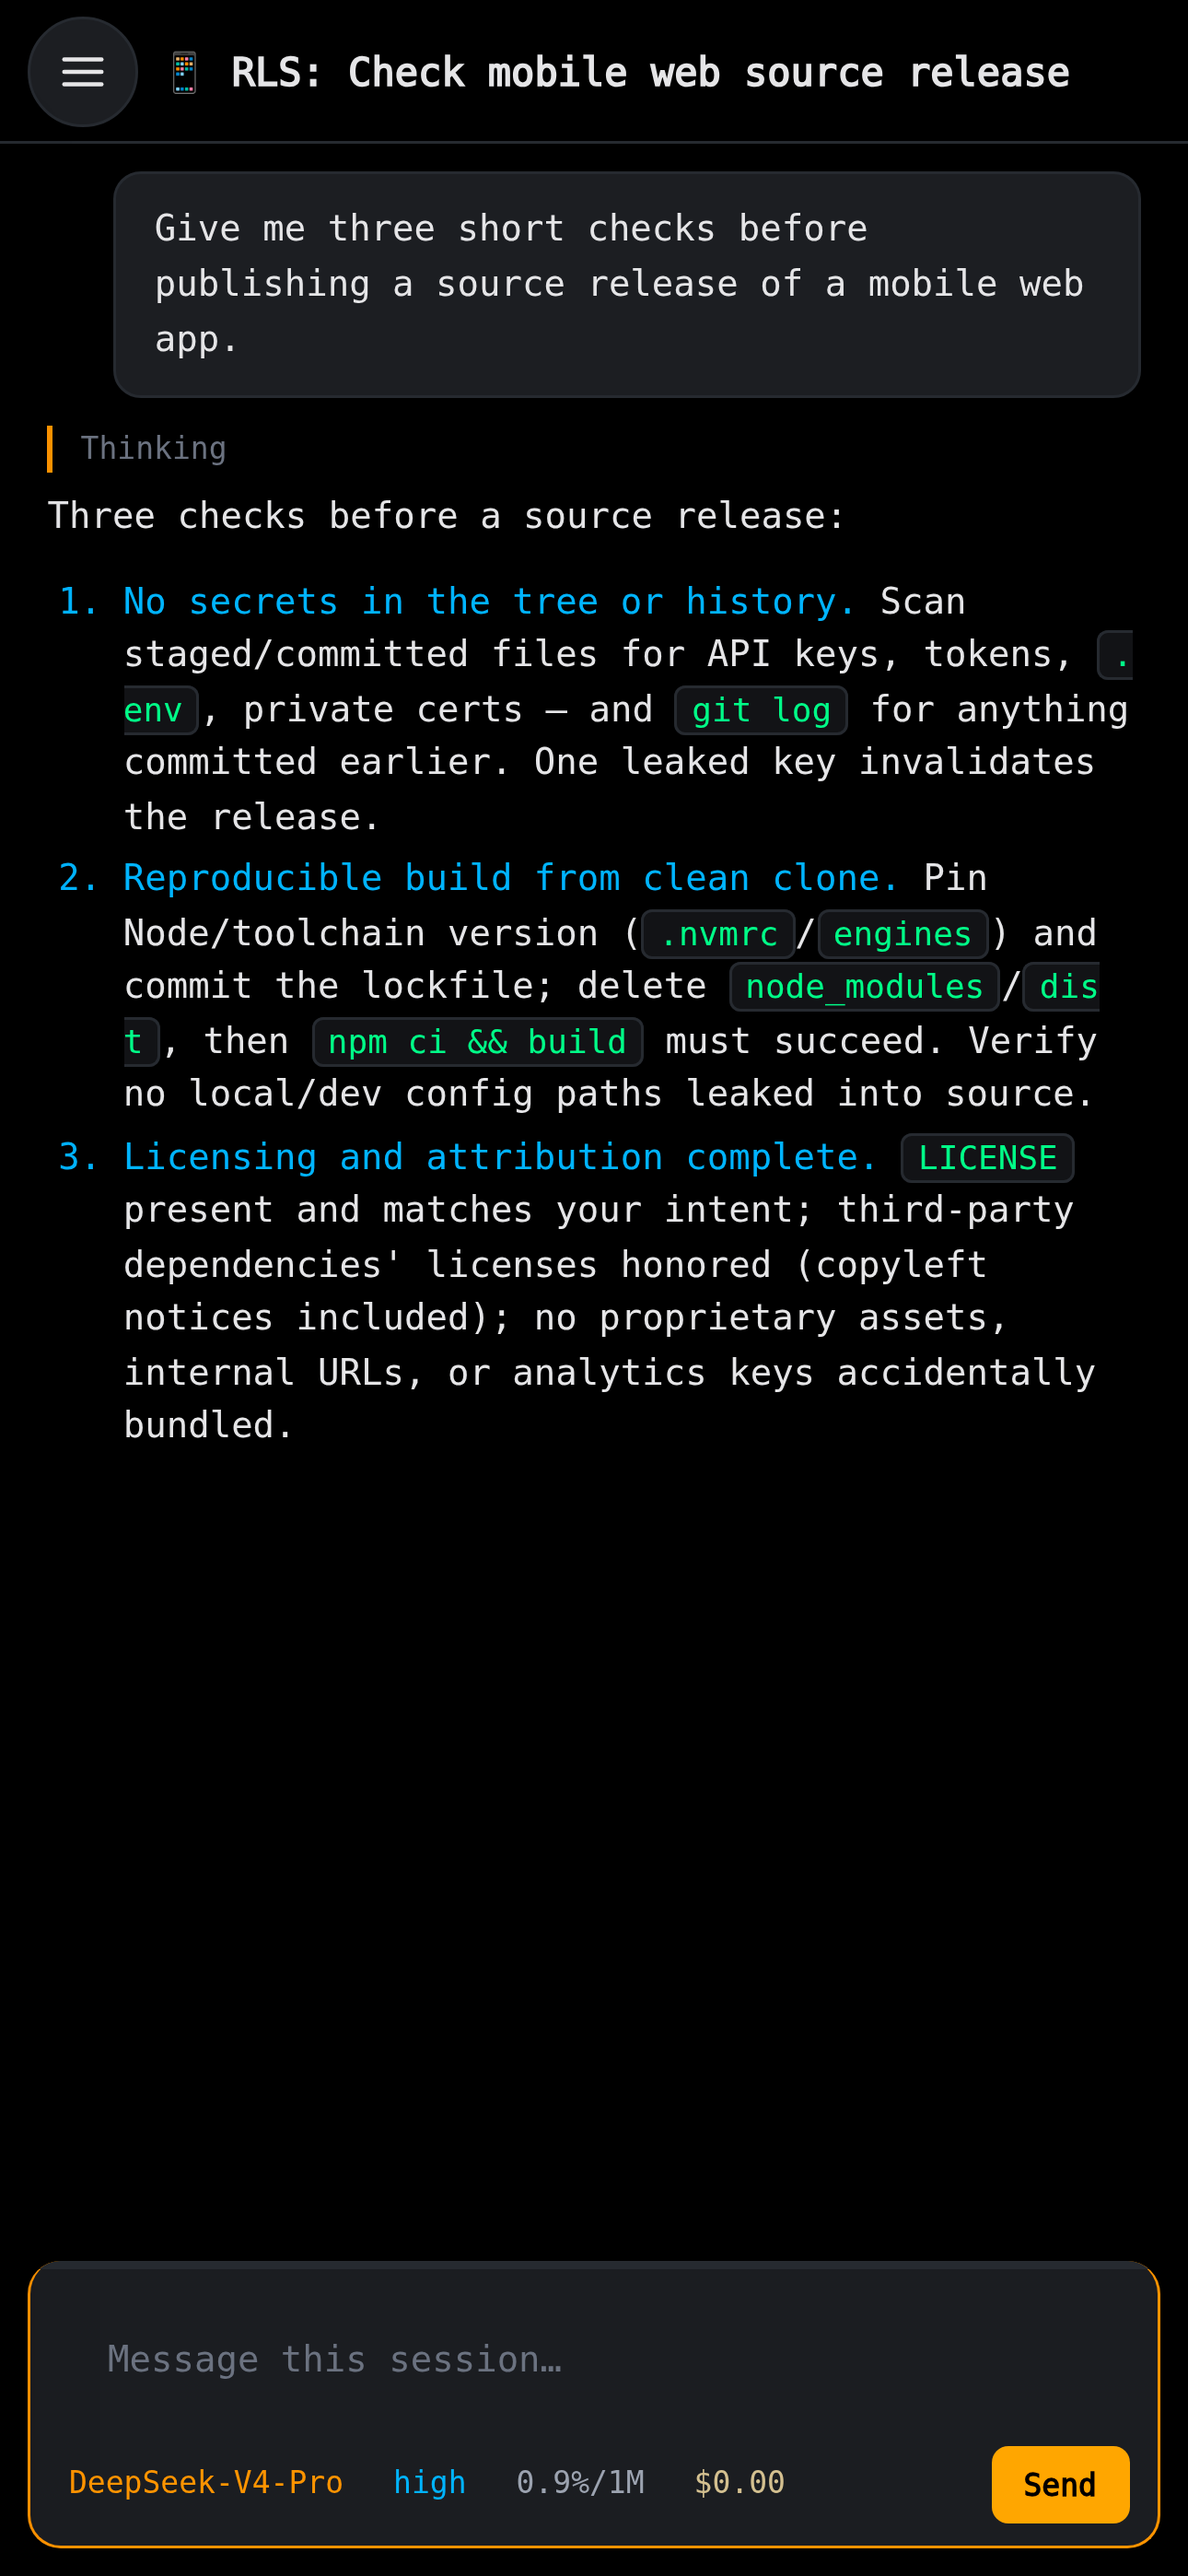
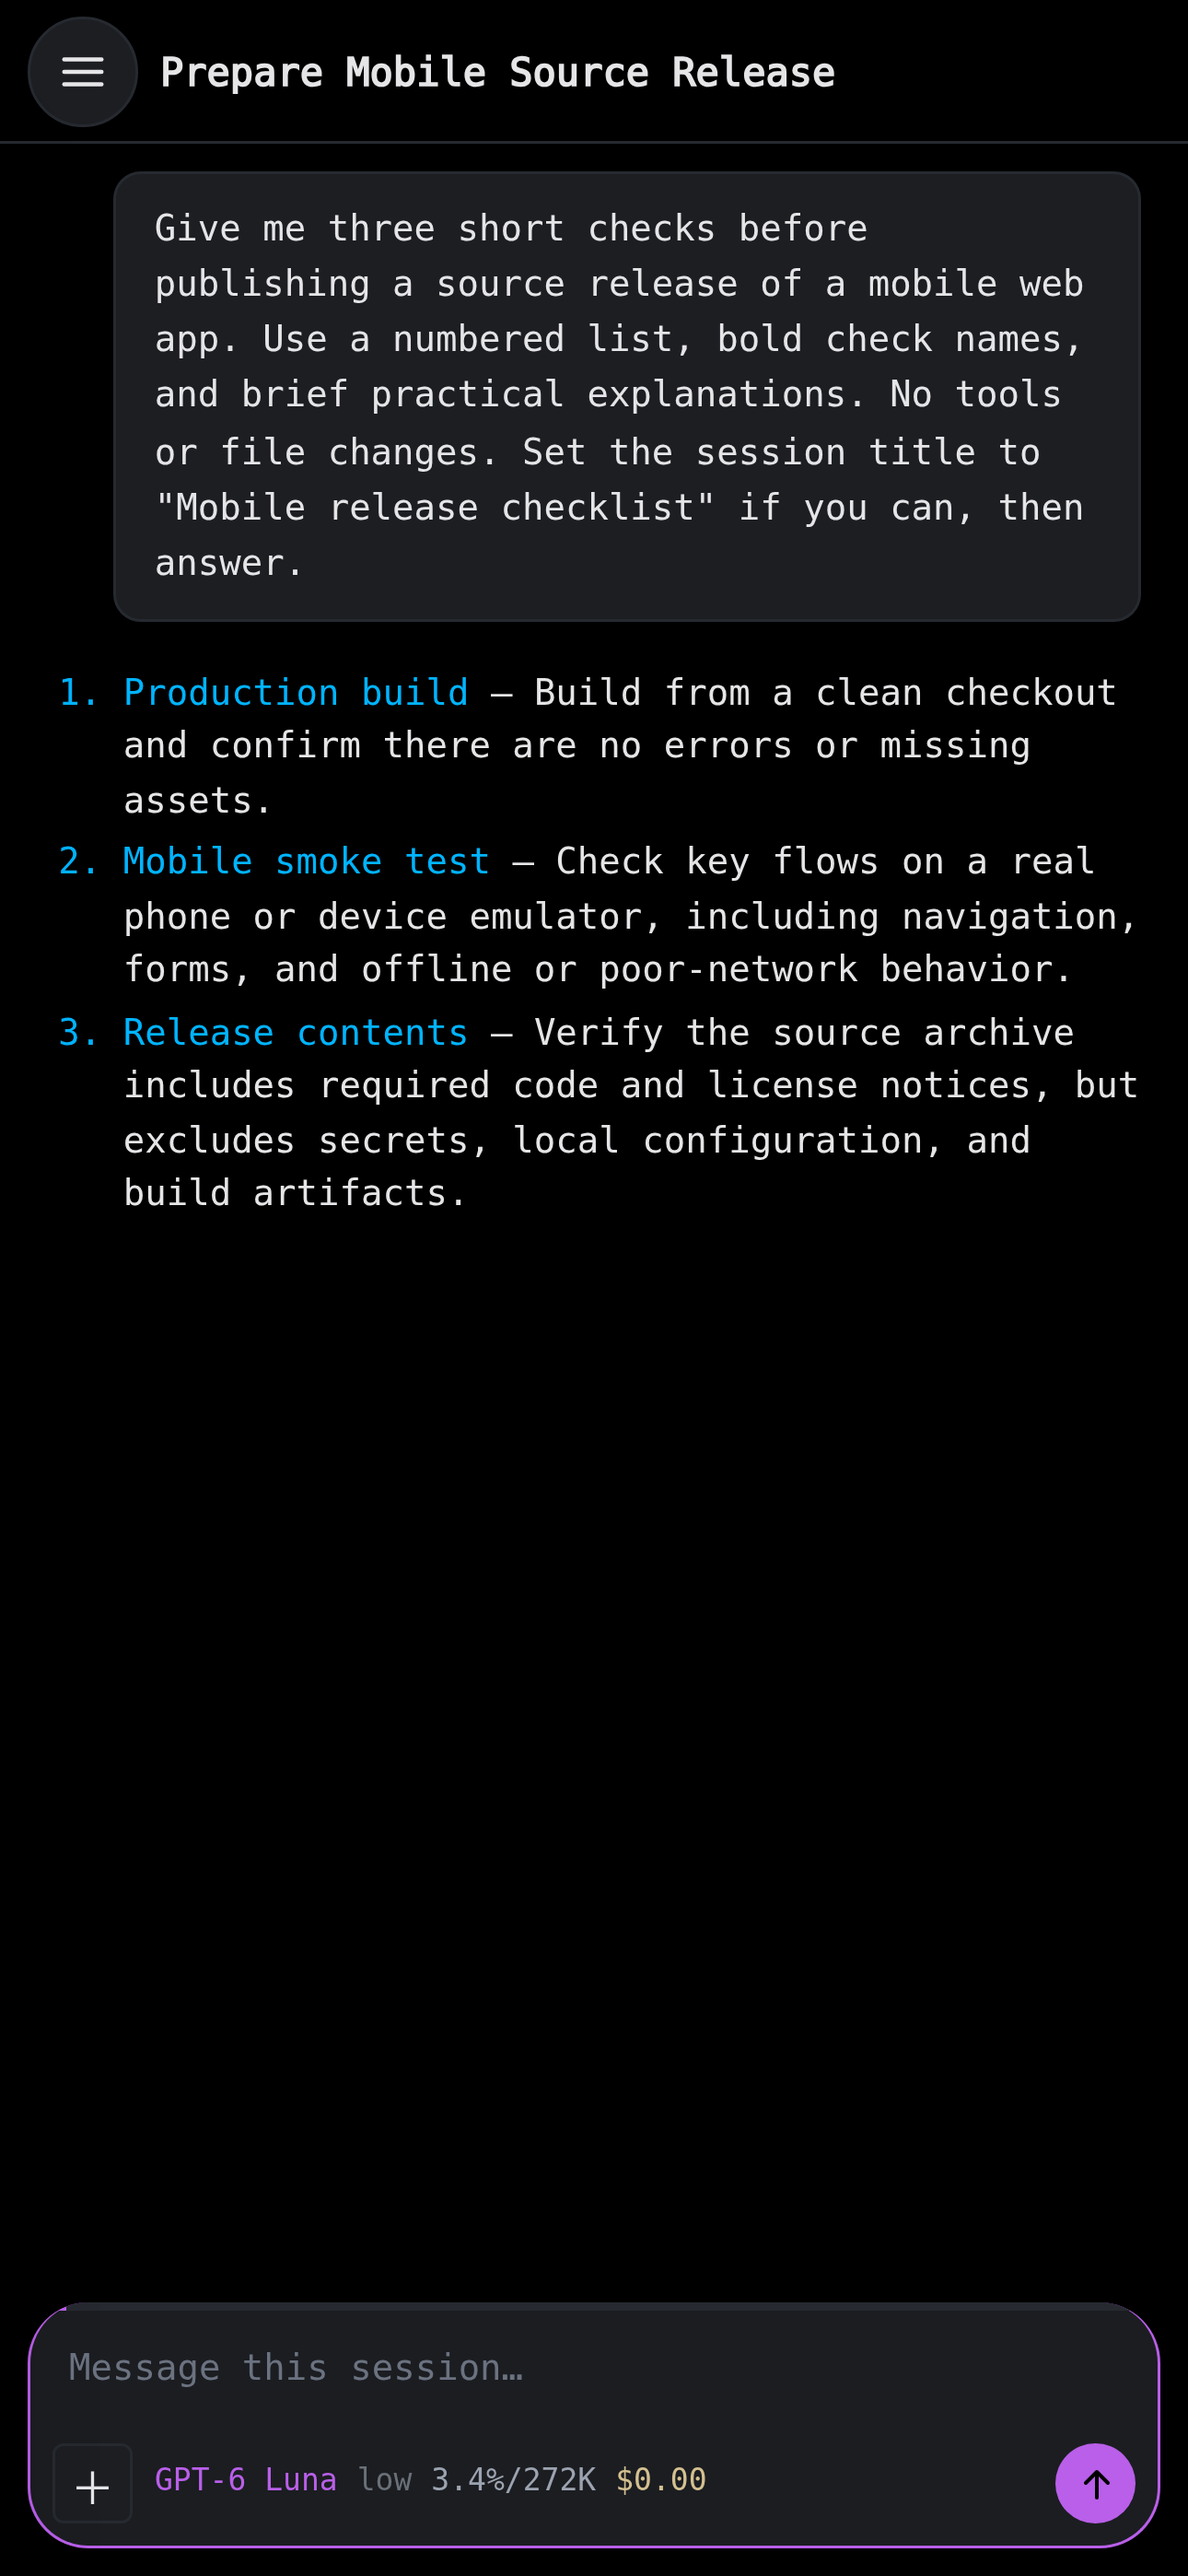
Refresh mobile screenshots and show sessions sidebar

diff --git a/docs/guide.md b/docs/guide.md
@@ -3,8 +3,8 @@
 For the short install steps, see the [README](../README.md). This guide covers the gateway, desktop-daemon integration,
 security, configuration and operational details.
 
-Screenshots: [session and composer](screenshots/chat.png) · [to-do drawer](screenshots/todos.png) · [sidebar settings](screenshots/settings.png).
-Captured from disposable sessions at 1290 × 2796 pixels (430 × 932 CSS pixels, 3× scale). The full-screen to-do capture shows an active task and two pending tasks.
+Screenshots: [session and composer](screenshots/chat.png) · [to-do drawer](screenshots/todos.png) · [sessions sidebar](screenshots/sessions.png).
+Captured with GPT-6 Luna in disposable sessions at 1290 × 2796 pixels (430 × 932 CSS pixels, 3× scale). The full-screen to-do capture shows an active task and two pending tasks; the sidebar shows live and recent sessions with settings closed.
 
 ## Requirements and service relationship
 

diff --git a/README.md b/README.md
@@ -8,7 +8,7 @@ sessions as [OMP Desktop](https://github.com/cpu23/omp-desktop); add it to your 
 <p>
   <img src="docs/screenshots/chat.png" alt="Mobile session transcript and composer" width="260">
   <img src="docs/screenshots/todos.png" alt="Mobile session with the expanded to-do drawer: active task in the session accent, pending tasks in neutral text" width="260">
-  <img src="docs/screenshots/settings.png" alt="Mobile sidebar settings and shared session limit" width="260">
+  <img src="docs/screenshots/sessions.png" alt="Mobile sidebar with live and recent sessions" width="260">
 </p>
 
 ## Requirements
